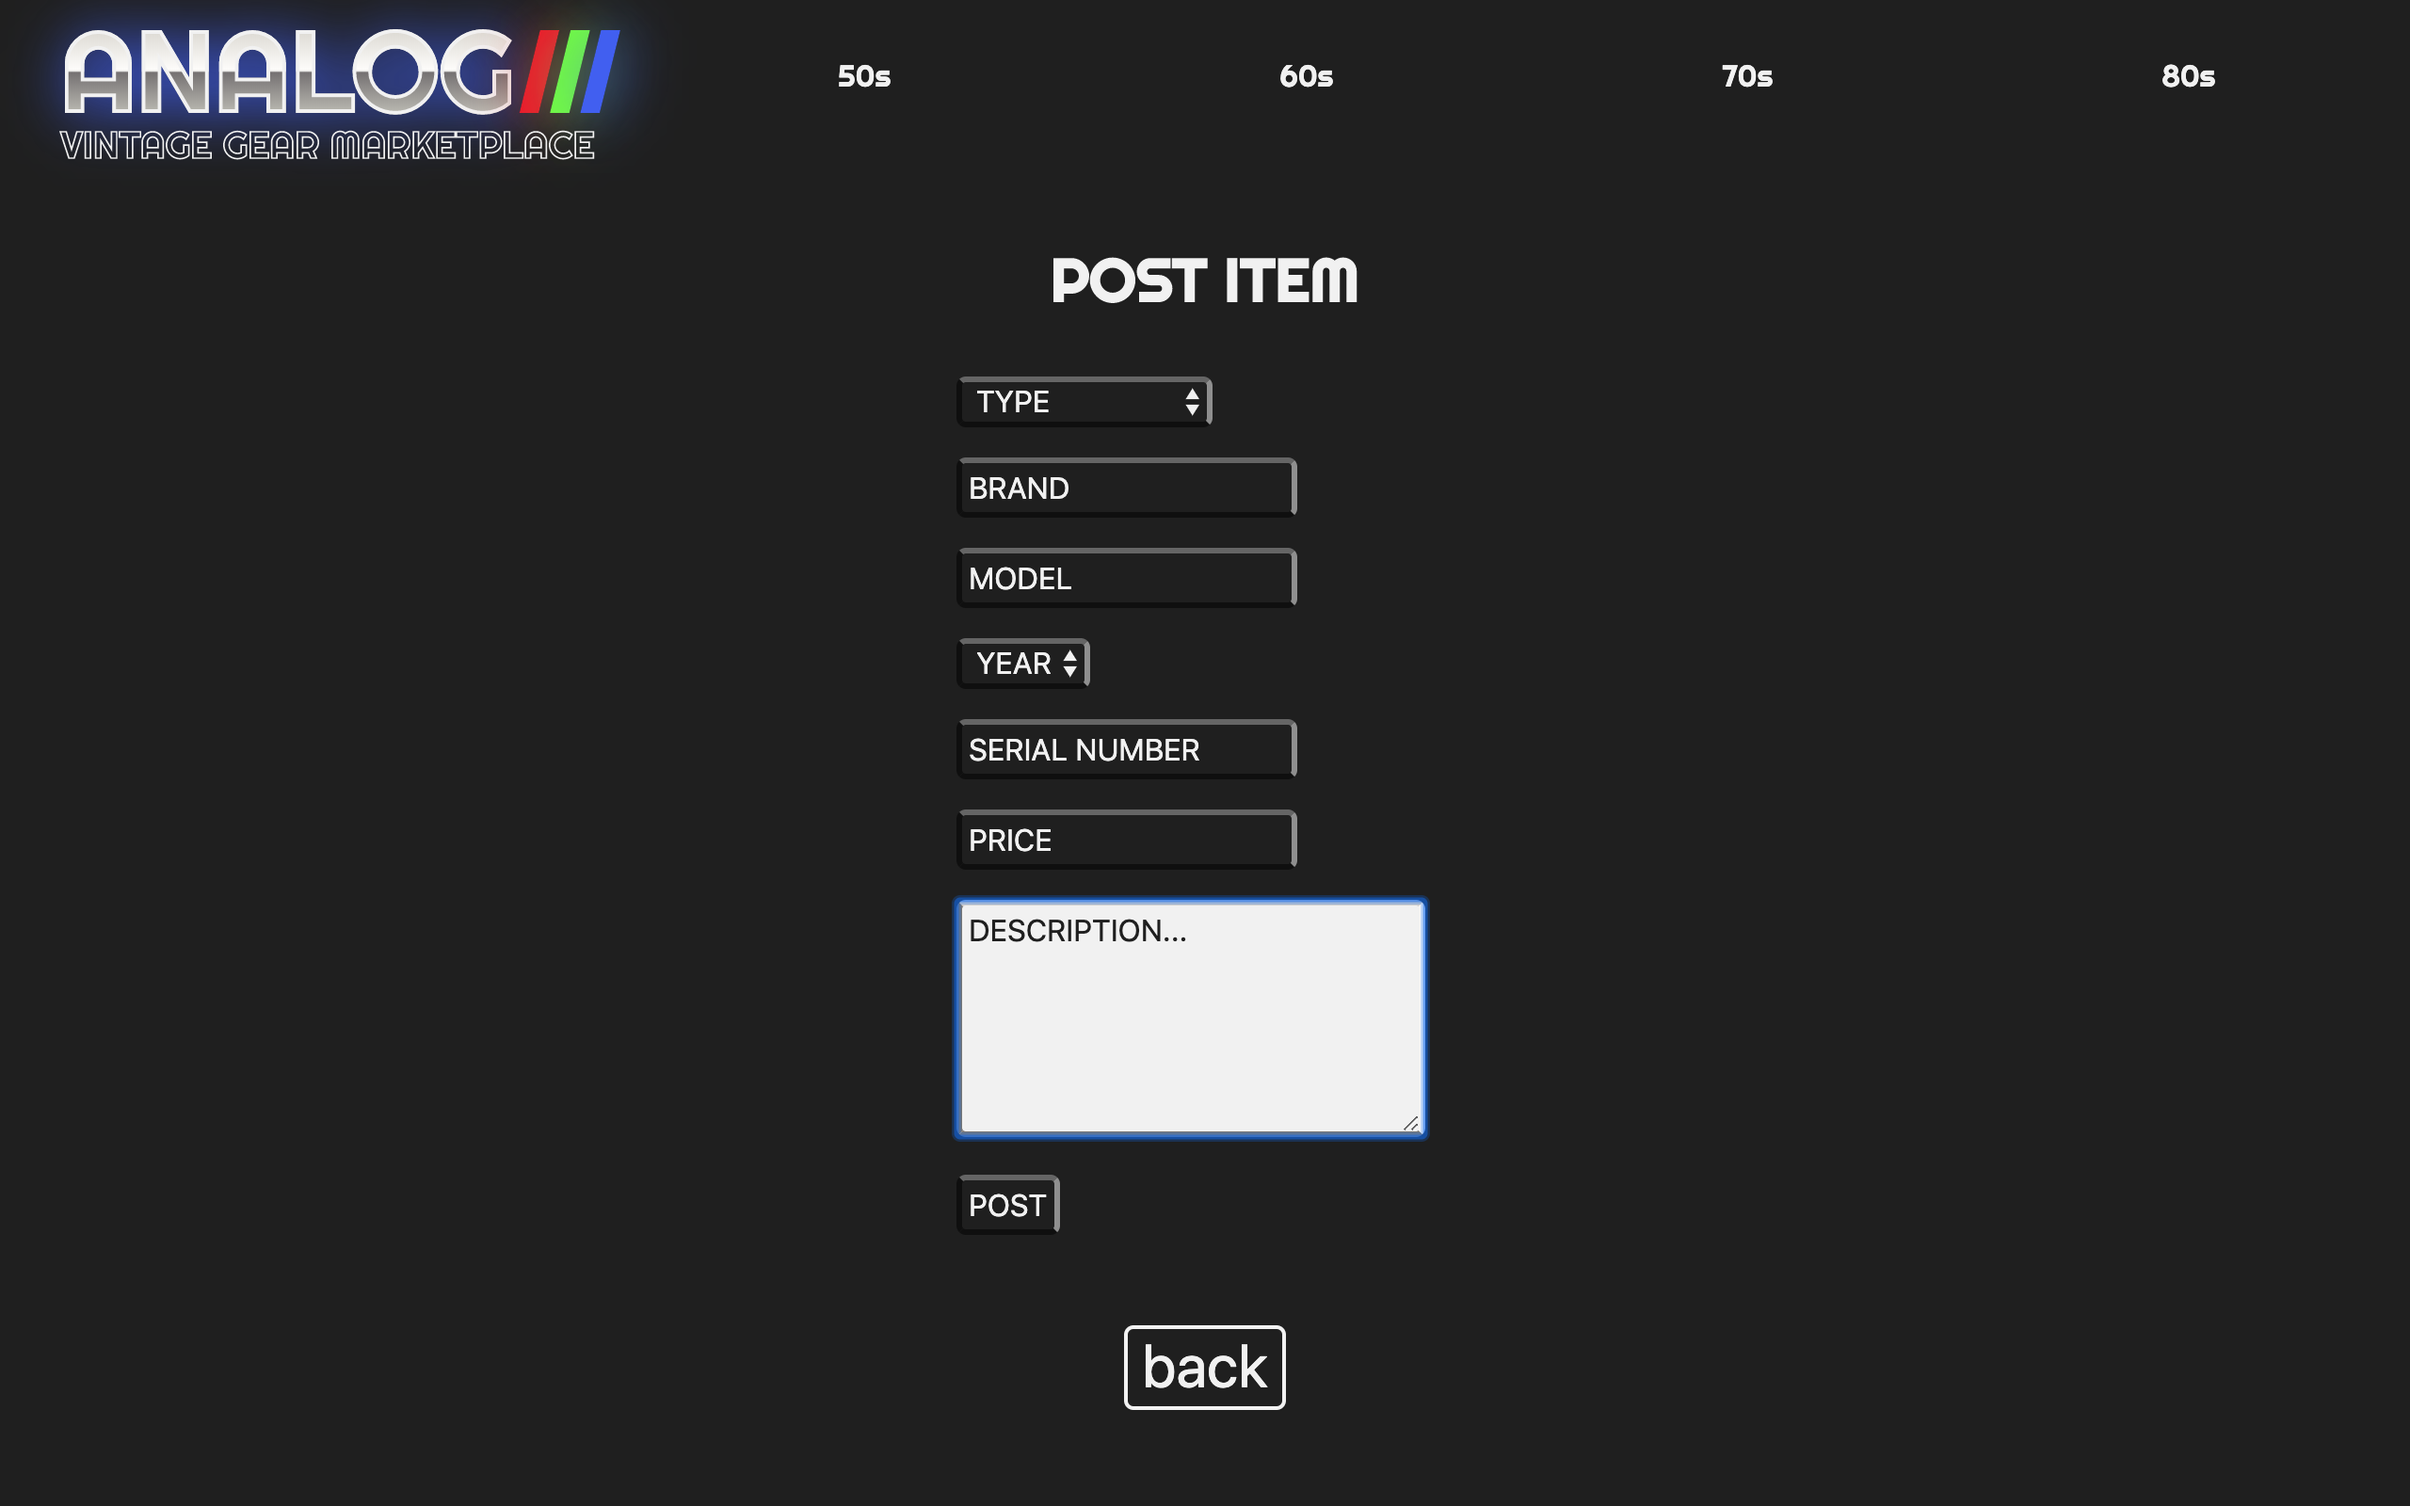
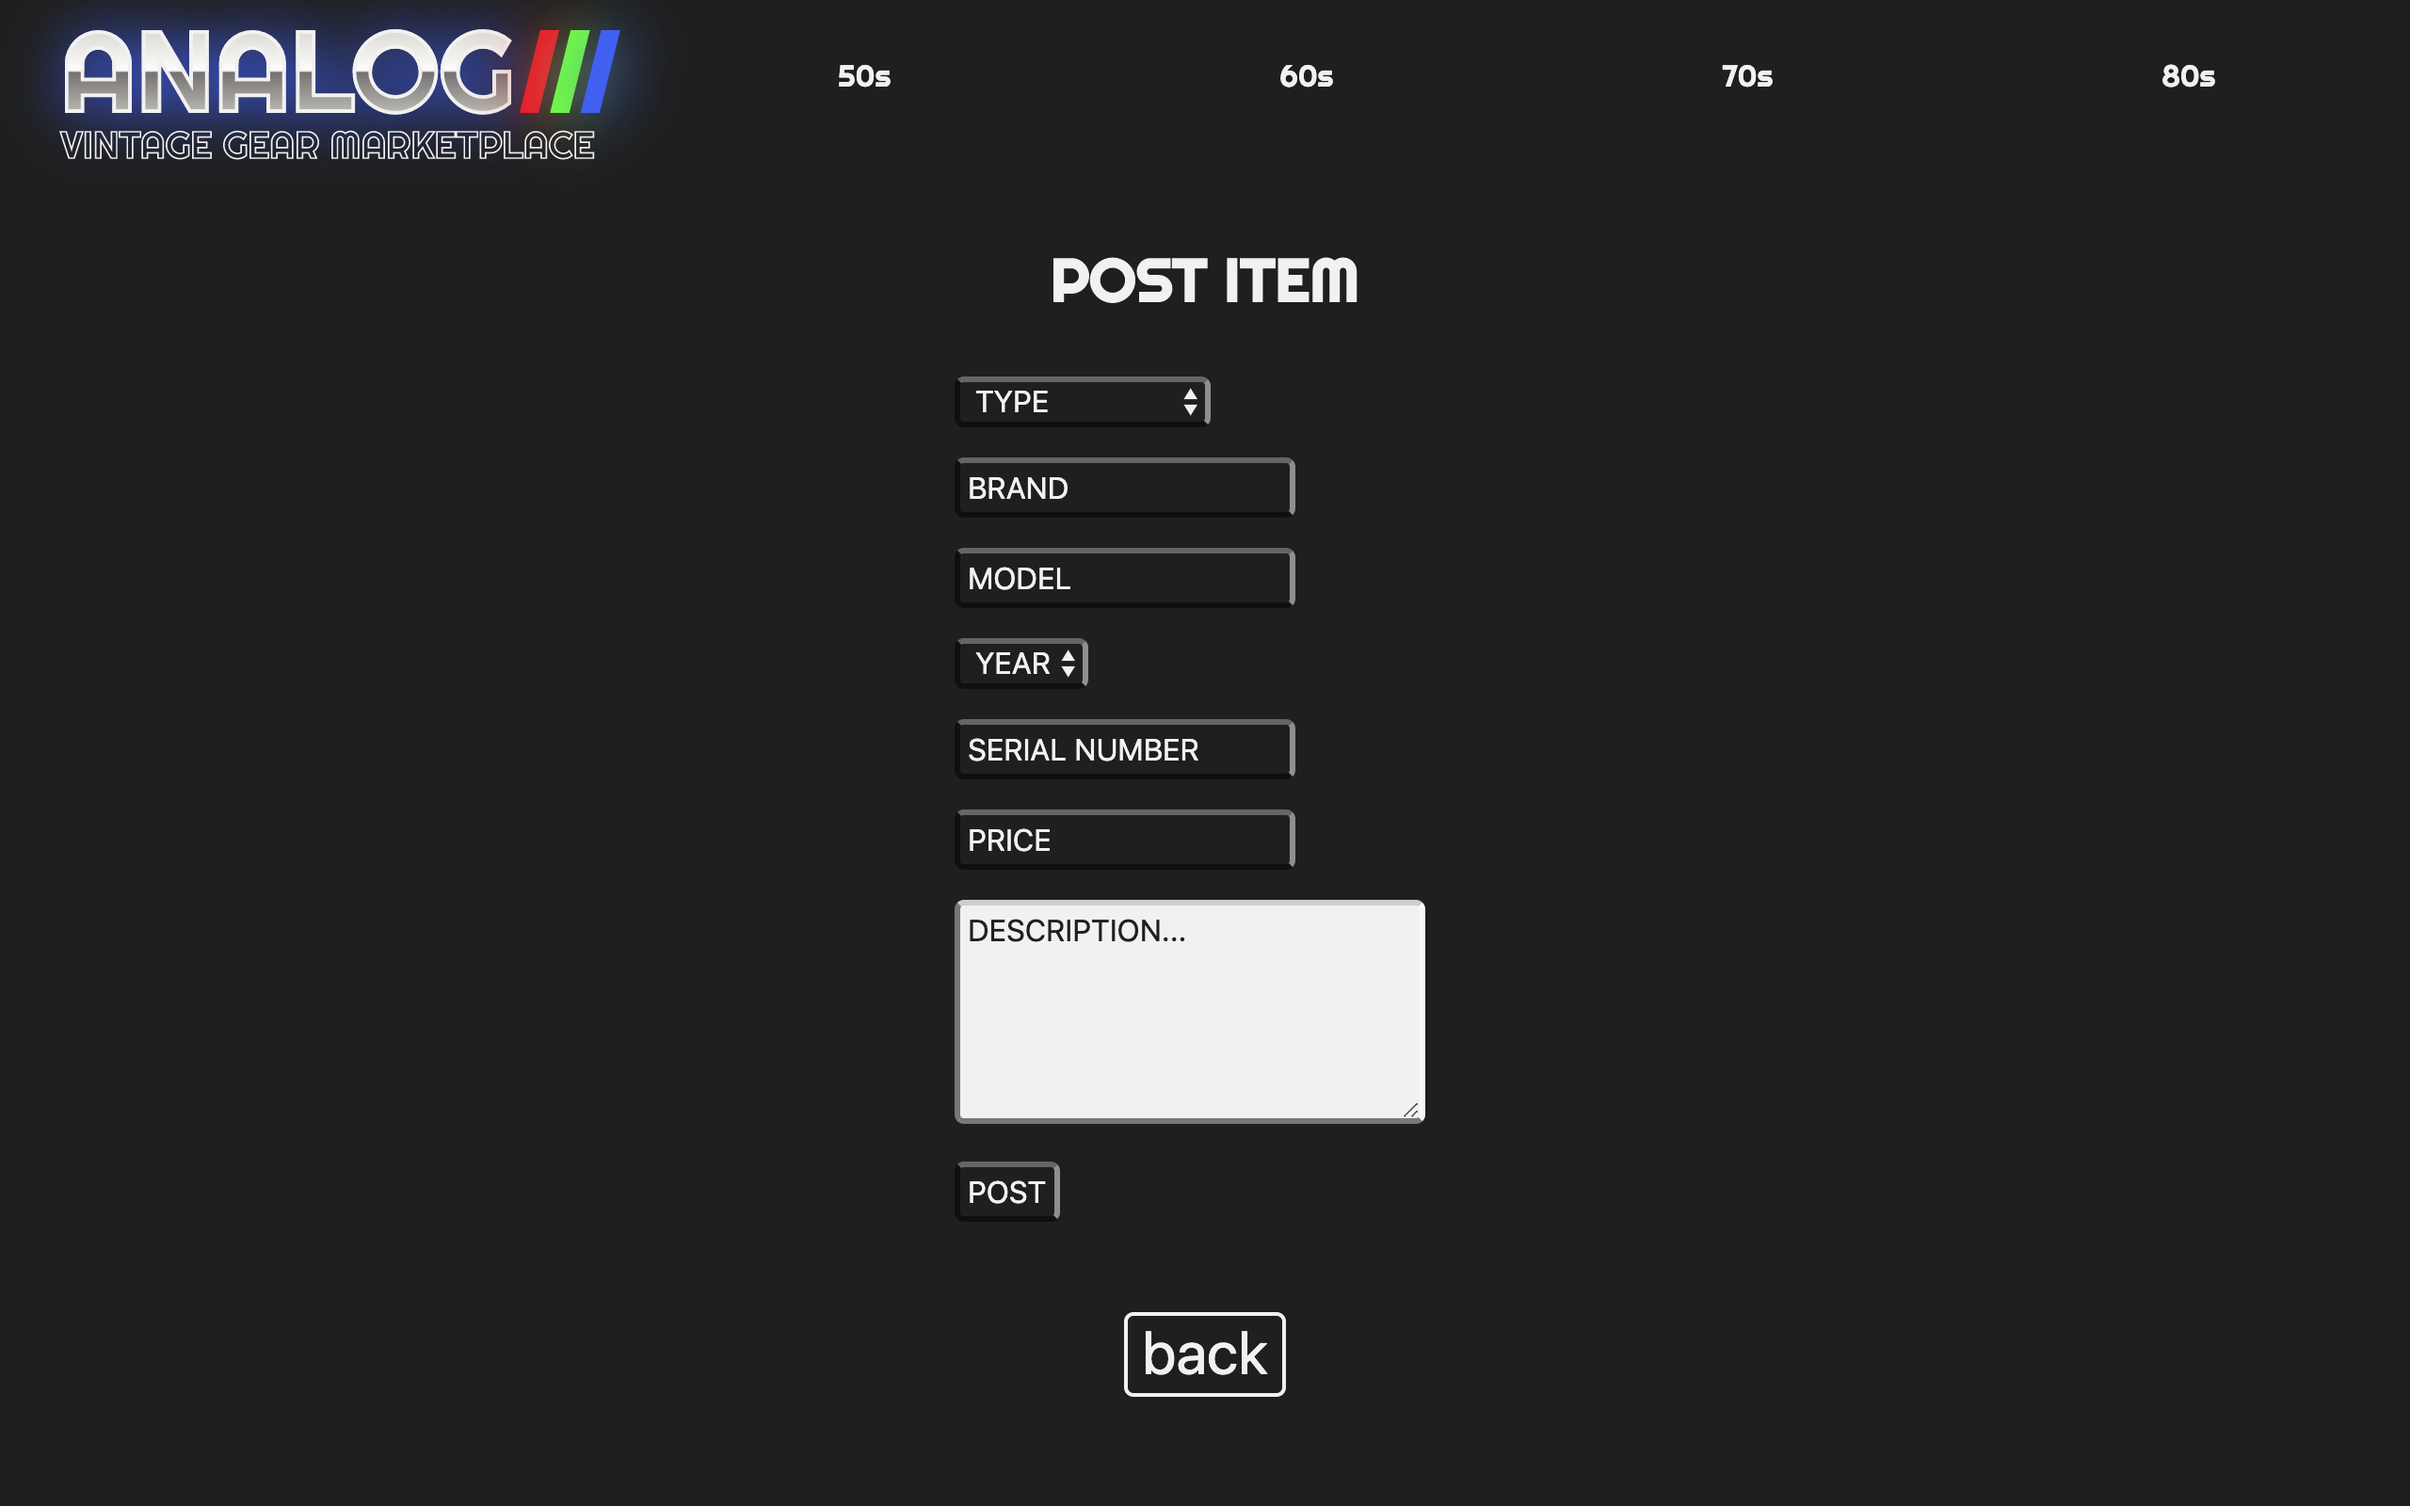
Added image and styles.

diff --git a/client/src/sass/main.scss b/client/src/sass/main.scss
@@ -297,7 +297,7 @@ html {
         & input, select, textArea {
             background: $fadedWhite;
             border-bottom: 3px inset rgba(0,0,0,.5);
-            border-left: 3px inset rgba(0,0,0,.51);
+            border-left: 3px inset rgba(0,0,0,.5);
             border-right: 3px inset rgba(255,255,255,.5);
             border-top: 3px inset rgba(255,255,255,.5);
             box-sizing: border-box;

diff --git a/client/src/css/style.css b/client/src/css/style.css
@@ -216,7 +216,7 @@ html {
   .form-item-div input, .form-item-div select, .form-item-div textArea {
     background: #F1F1F1;
     border-bottom: 3px inset rgba(0, 0, 0, 0.5);
-    border-left: 3px inset rgba(0, 0, 0, 0.51);
+    border-left: 3px inset rgba(0, 0, 0, 0.5);
     border-right: 3px inset rgba(255, 255, 255, 0.5);
     border-top: 3px inset rgba(255, 255, 255, 0.5);
     box-sizing: border-box;
